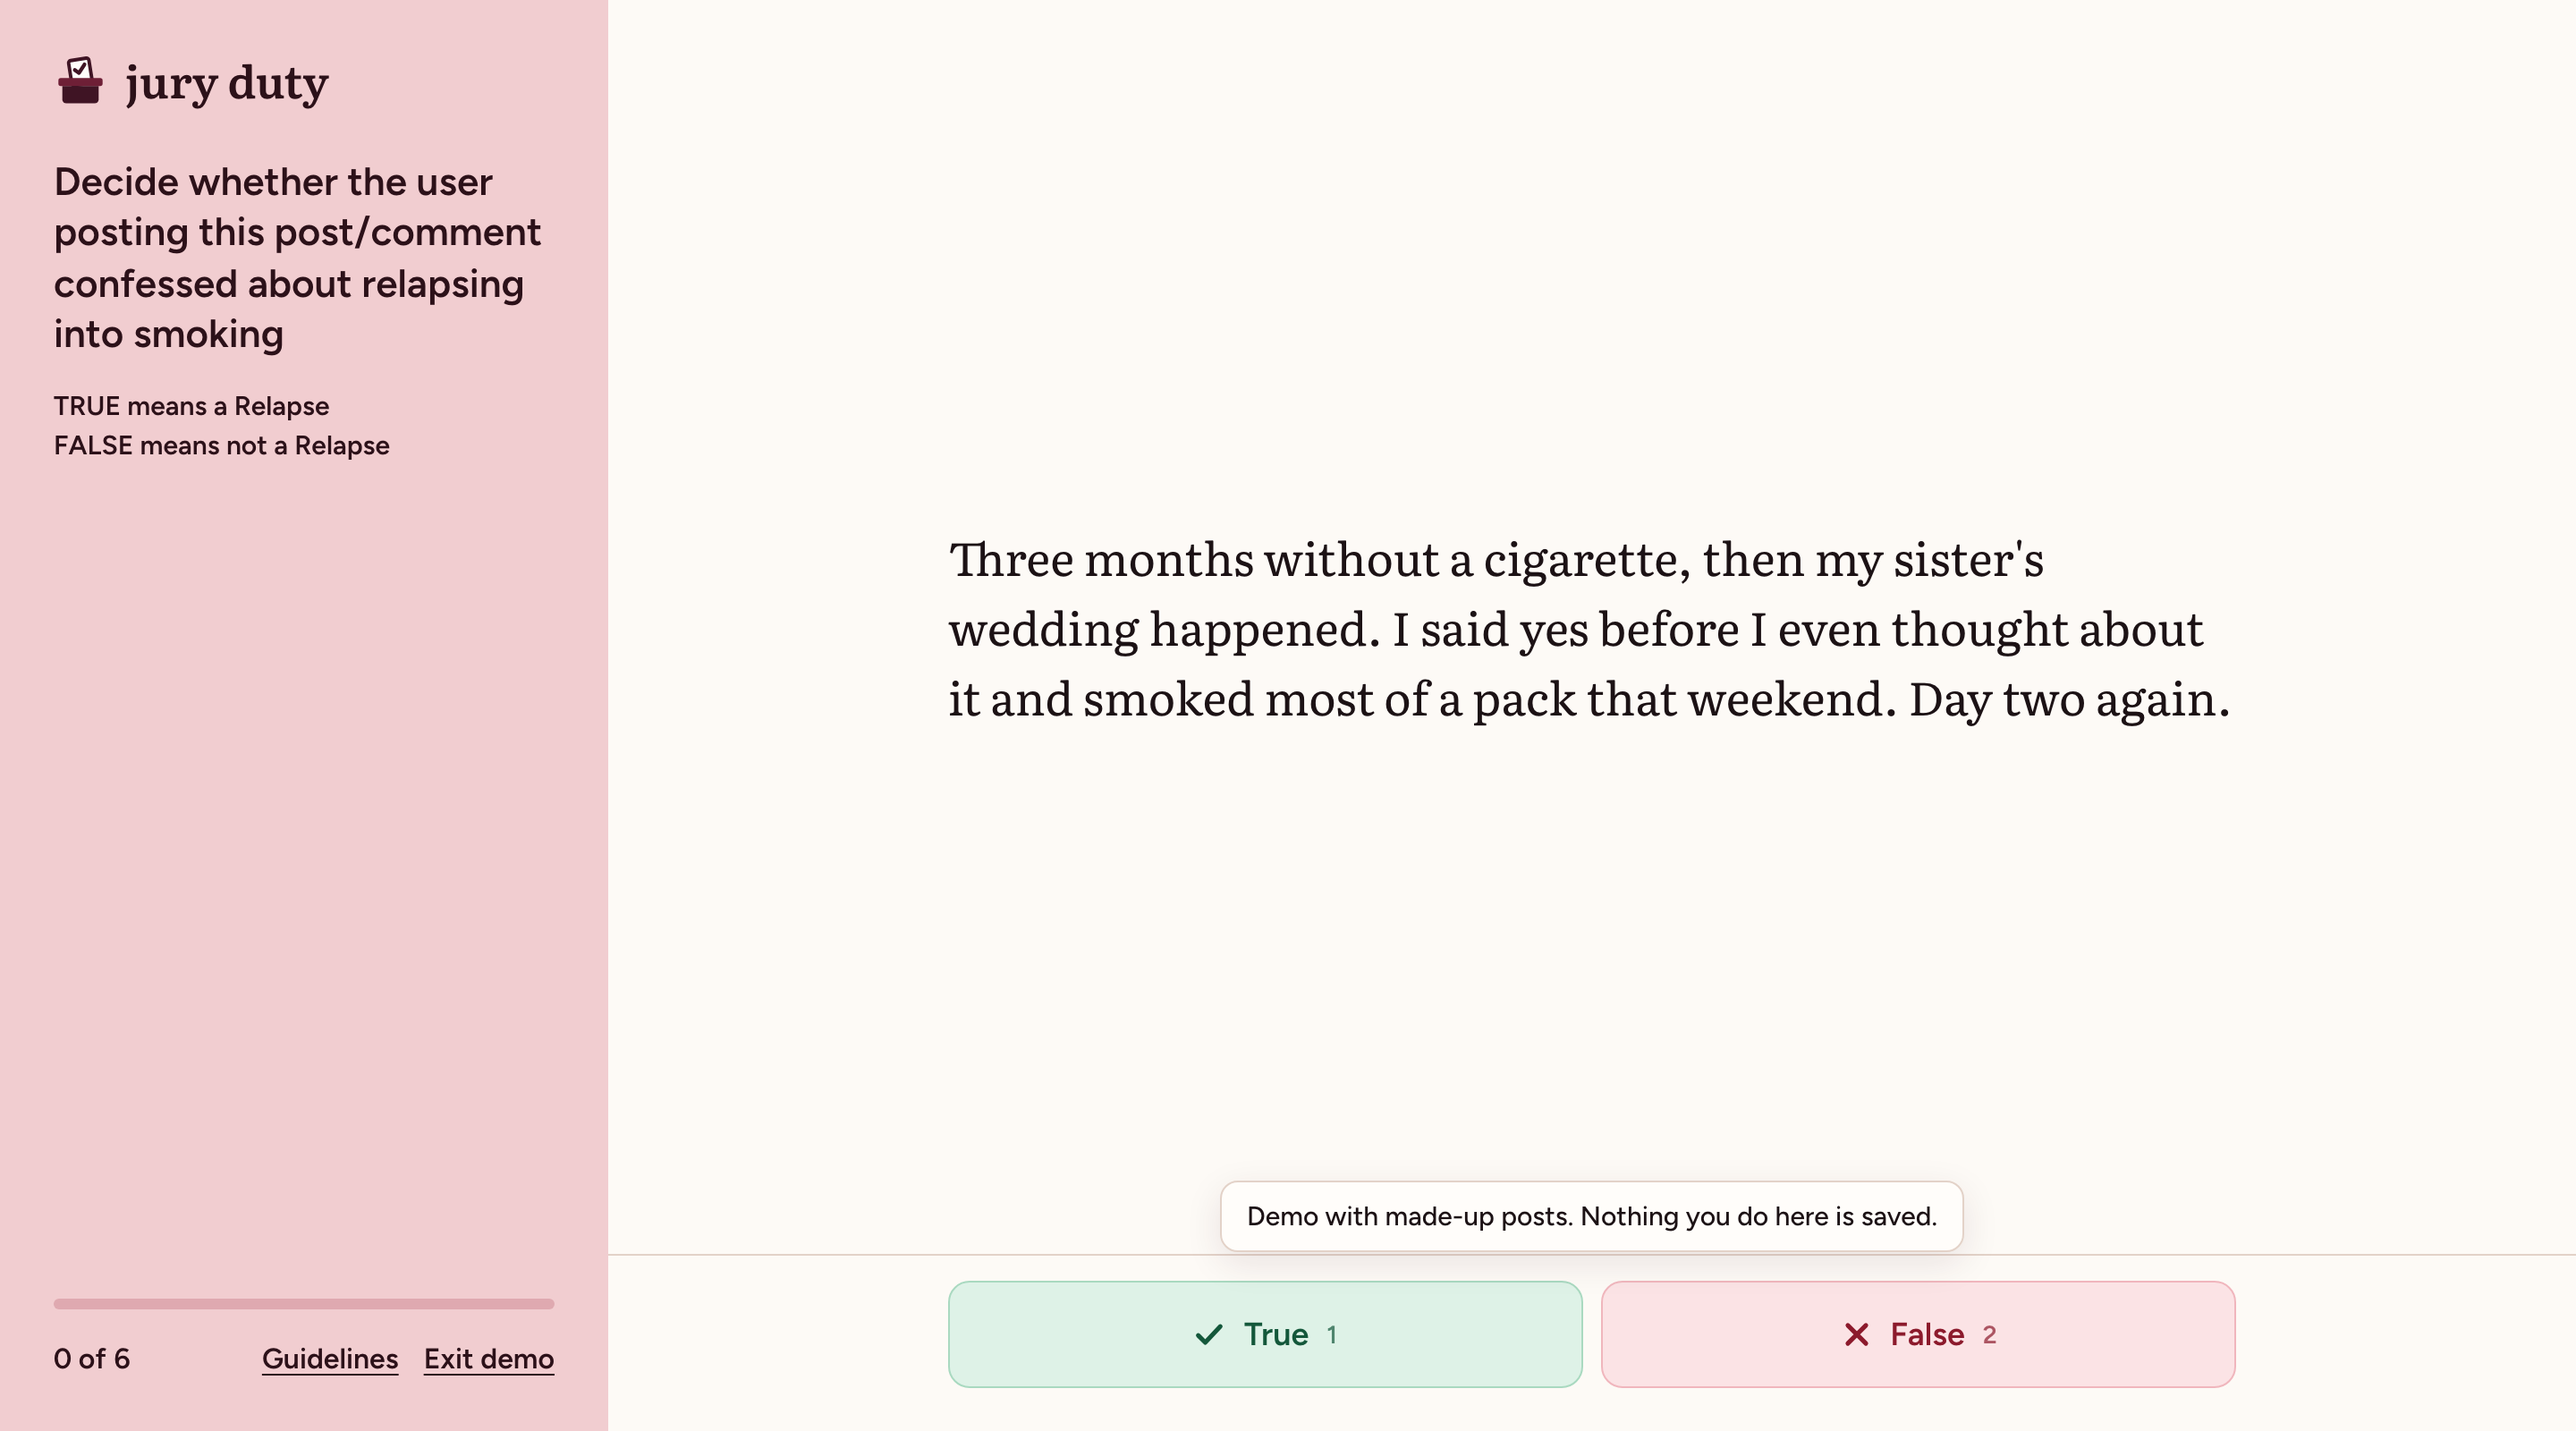
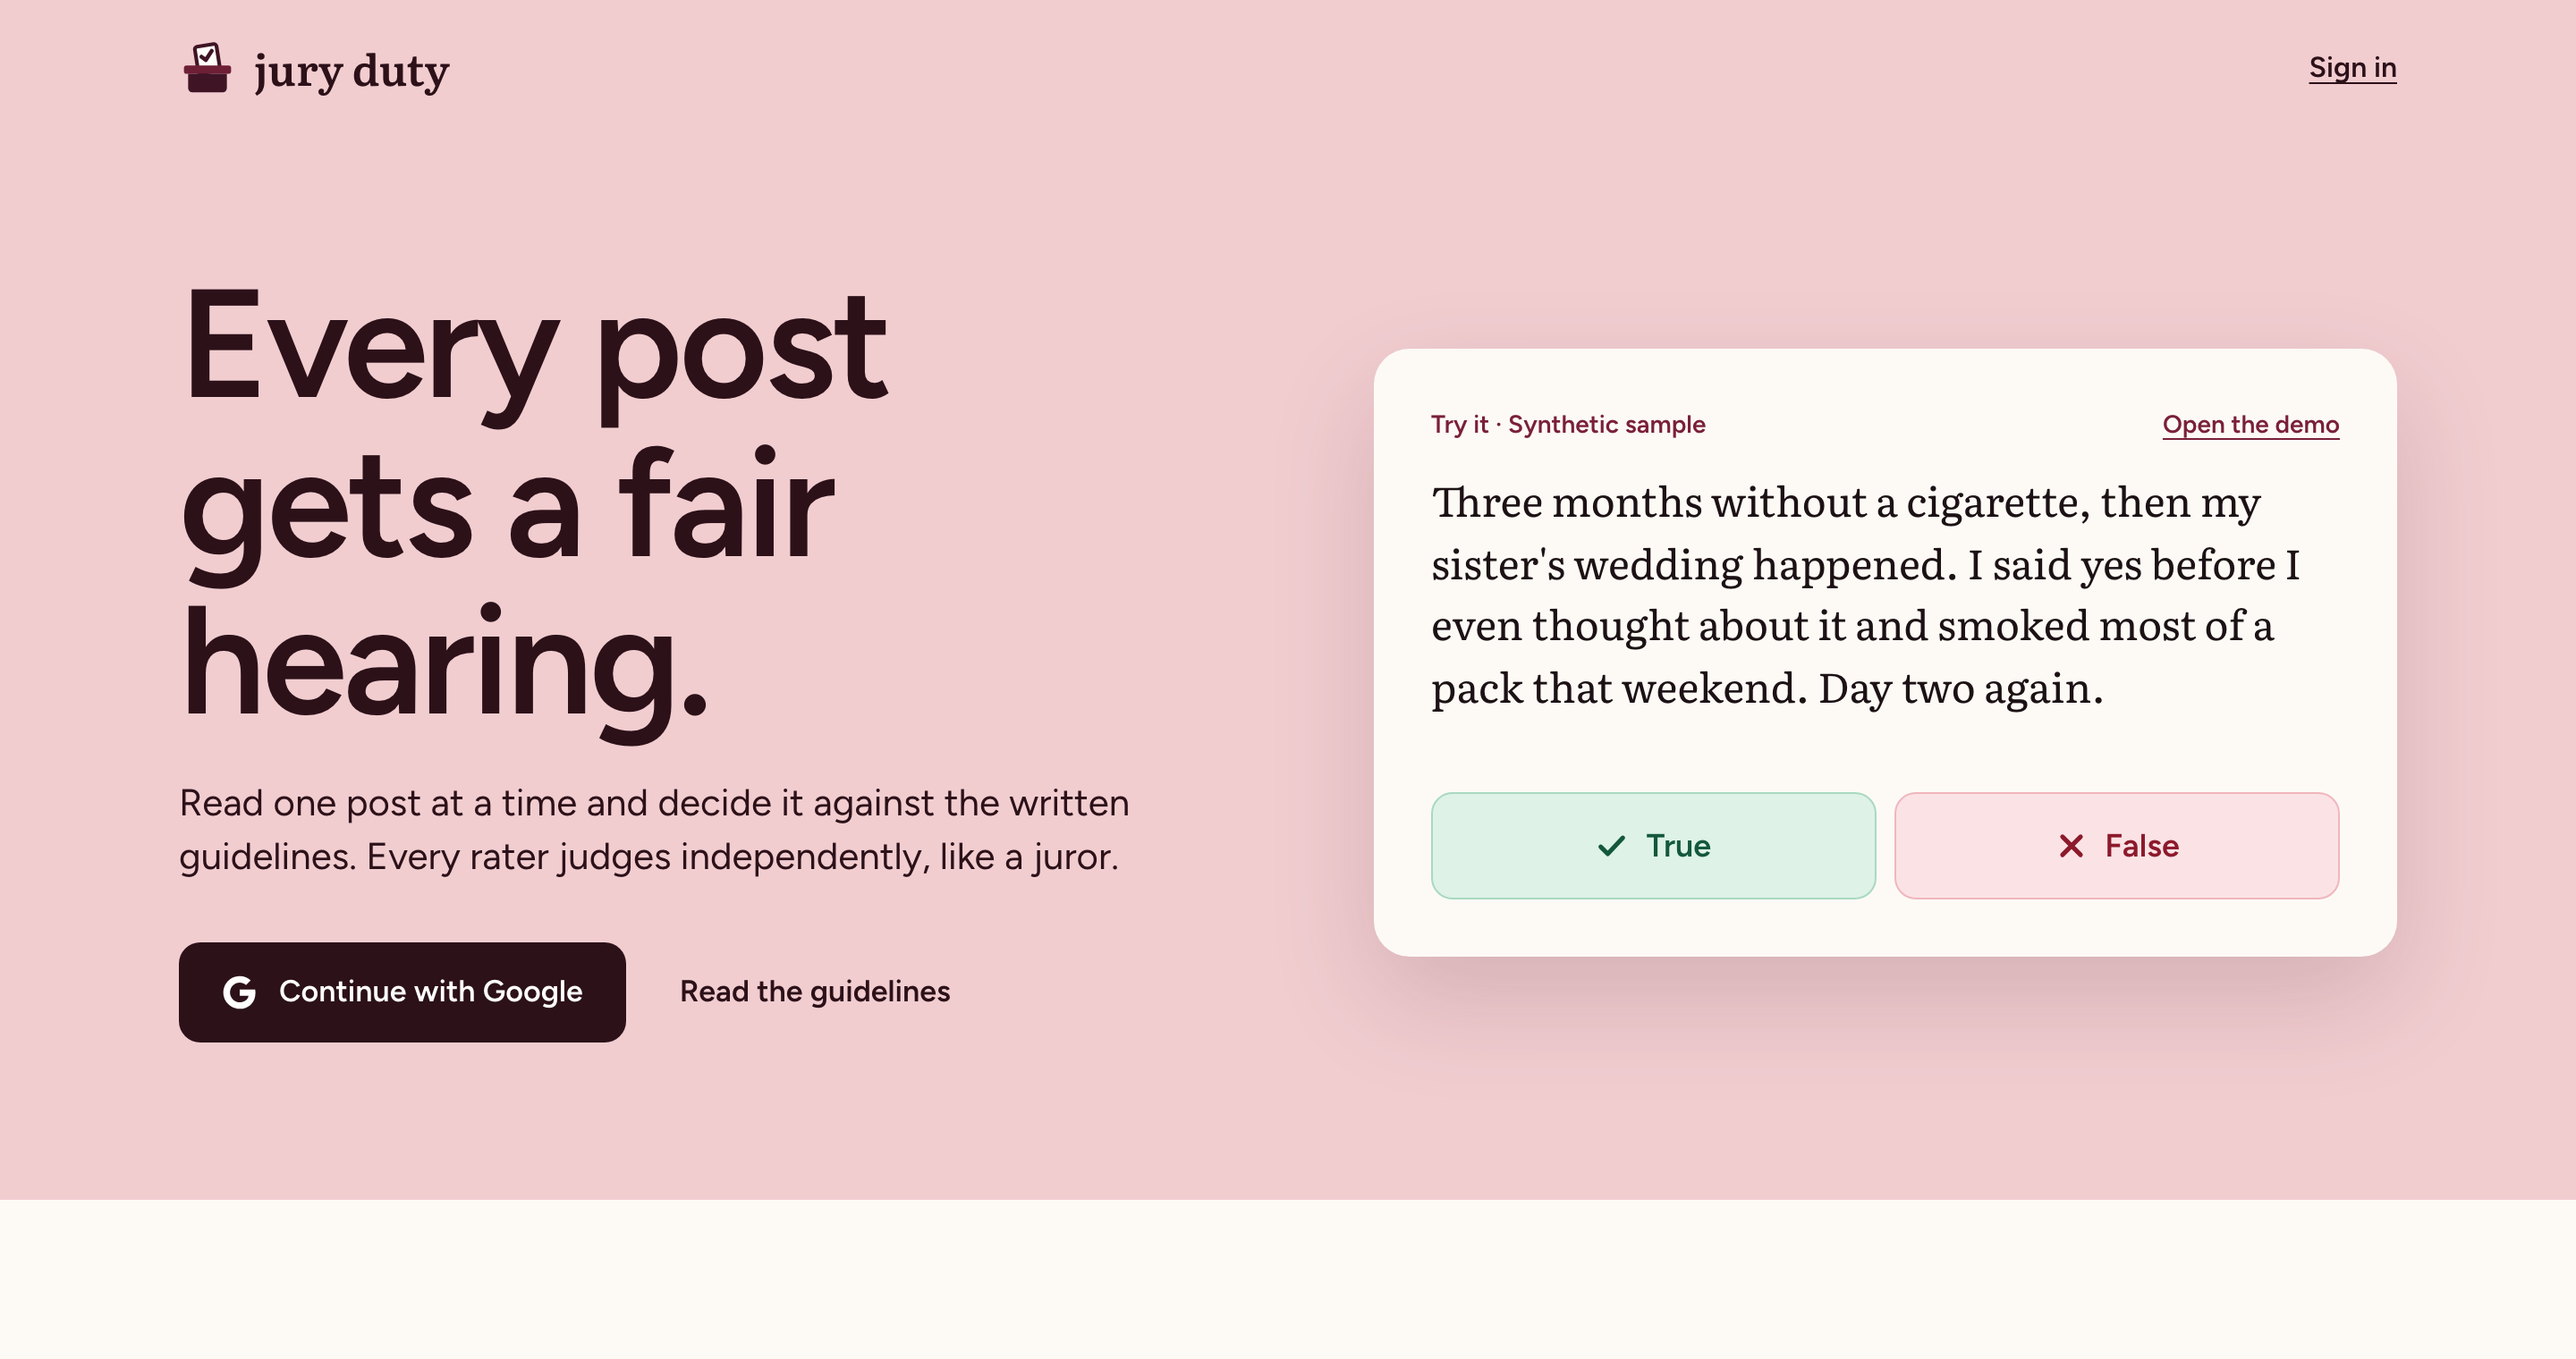
Rewrite the README and fix its license
Explain what Jury Duty is and how it works, add screenshots, and correct
the license to GPL v3. Also fix the demo link colour on the landing page.

diff --git a/frontend/src/routes/+page.svelte b/frontend/src/routes/+page.svelte
@@ -278,6 +278,11 @@
 		font-weight: 600;
 	}
 
+	.tag a {
+		color: inherit;
+		text-underline-offset: 3px;
+	}
+
 	.sample {
 		flex: 1;
 		margin-bottom: 16px;

diff --git a/README.md b/README.md
@@ -1,25 +1,49 @@
 <!-- markdownlint-disable MD033 -->
 
 <p align="center">
-  <img src="./.github/assets/jury-duty-preview.png" alt="Jury Duty: every post gets a fair hearing">
+  <img src="./.github/assets/jury-duty-preview.png" alt="Jury Duty: every post gets a fair hearing" width="1200">
 </p>
 
 ## Jury Duty
 
-Jury Duty is a data labeling engine for coordinated multi-rater annotation.
+Jury Duty is a self-hosted app for getting a group of people to label a dataset by hand, and measuring whether they agree.
 
-Each deployment is built around a single dataset: you host your own instance, load your posts, invite raters, and collect independent TRUE or FALSE verdicts ready for agreement analysis.
+Research and machine learning often need humans to read thousands of pieces of text and make the same yes-or-no call. Doing that in a spreadsheet goes wrong quickly: raters collide, posts get skipped, and nobody knows whether the labels can be trusted. Jury Duty gives each rater one post at a time, records an independent TRUE or FALSE verdict, and shows the project owner how reliable the results are.
 
-[juryduty.hishaam.dev](https://juryduty.hishaam.dev) is one deployment of it, running a real research dataset. [Try the demo](https://juryduty.hishaam.dev/demo) with made-up posts, no sign-in needed.
+**Try the [demo](https://juryduty.hishaam.dev/demo), no sign-in needed.**
+
+[juryduty.hishaam.dev](https://juryduty.hishaam.dev) is one deployment of Jury Duty, built for a research project where 12 raters made more than 12,000 judgements on Reddit posts about quitting smoking. Your own deployment runs your own dataset and guidelines.
+
+## How It Works
+
+1. **Set it up.** Host your own copy, write your guidelines, and import your posts from a CSV.
+2. **Invite raters.** They sign in with Google and get one post at a time, with the guidelines a click away.
+3. **Collect verdicts.** Every rater judges independently and never sees anyone else's answer.
+4. **Check the results.** Owners see how far raters agree, where they differ, and can export everything to CSV.
+
+<p align="center">
+  <img src="./.github/assets/labeling.png" alt="The labeling screen, with a post, the guidelines summary, and True and False buttons" width="900">
+</p>
 
 ## What It Does
 
-- Assigns posts to raters without collisions, and shows each rater a post at most once
-- Saves every verdict safely, with undo for a recent mistake
+For raters:
+
+- Shows one post at a time, from a single line to several screens, with True and False always in the same place
+- Assigns posts so raters don't collide, and gives each rater a post at most once
 - Works by click, tap or keyboard, on desktop and phone
-- Keeps the written guidelines one click away while labeling
-- Gives owners a results page with inter-rater agreement, rater pairs and disagreements
-- Exports every verdict to CSV for downstream analysis
+- Saves every verdict safely, keeps the post on screen if a save fails, and allows undo for 10 minutes
+- Reminds raters to take a break, because labeling sensitive content for hours is tiring
+
+For owners:
+
+- Shows progress, each rater's workload and TRUE rate, and the posts raters disagreed on
+- Measures inter-rater agreement with Krippendorff's α, Scott's π, Fleiss' κ, Cohen's κ for each rater pair, Gwet's AC1 and PABAK, with confidence intervals and a plain-language reading
+- Exports every verdict to CSV for your own analysis
+
+<p align="center">
+  <img src="./.github/assets/results.png" alt="The results page showing inter-rater agreement statistics on sample data" width="900">
+</p>
 
 ## Tech Stack
 
@@ -29,17 +53,18 @@ Each deployment is built around a single dataset: you host your own instance, lo
 [![Supabase](https://img.shields.io/badge/Supabase-Auth-3ECF8E?style=for-the-badge&logo=supabase&logoColor=white)](https://supabase.com/)
 [![PostgreSQL](https://img.shields.io/badge/PostgreSQL-17-336791?style=for-the-badge&logo=postgresql&logoColor=white)](https://www.postgresql.org/)
 [![Vercel](https://img.shields.io/badge/Vercel-Hosting-000000?style=for-the-badge&logo=vercel&logoColor=white)](https://vercel.com/)
+[![Vitest](https://img.shields.io/badge/Vitest-Tests-6E9F18?style=for-the-badge&logo=vitest&logoColor=white)](https://vitest.dev/)
 [![Playwright](https://img.shields.io/badge/Playwright-Tests-2EAD33?style=for-the-badge&logo=playwright&logoColor=white)](https://playwright.dev/)
 
 ## Self-Hosting
 
 [![Deploy with Vercel](https://vercel.com/button)](https://vercel.com/new/clone?repository-url=https%3A%2F%2Fgithub.com%2Fmdhishaamakhtar%2Fjury-duty&root-directory=frontend&env=PUBLIC_SUPABASE_URL,PUBLIC_SUPABASE_ANON_KEY,SUPABASE_SERVICE_ROLE_KEY&envDescription=Find%20these%20in%20your%20Supabase%20project%20settings&project-name=jury-duty&repository-name=jury-duty)
 
-Follow the [self-hosting guide](./docs/self-hosting.md) to set up your own deployment with your own data. It covers the database, Google sign-in, your guidelines, importing posts and adding owners.
+The [self-hosting guide](./docs/self-hosting.md) takes you from an empty Supabase project to a running deployment. It covers the database, Google sign-in, your guidelines, importing posts, adding owners, and reading the results.
 
 ## Quick Start
 
-You'll need Docker, Node.js 24 and the Supabase CLI.
+You need Docker, Node.js 24 and the [Supabase CLI](https://supabase.com/docs/guides/local-development/cli/getting-started). This starts a local database with every migration applied:
 
 ```bash
 export GOOGLE_CLIENT_ID=local GOOGLE_CLIENT_SECRET=local
@@ -47,7 +72,7 @@ supabase start
 supabase status -o env
 ```
 
-Copy `frontend/.env.example` to `frontend/.env` and fill in the local values, then start the app:
+Copy `frontend/.env.example` to `frontend/.env` and fill in the local URL and keys, then start the app:
 
 ```bash
 cd frontend
@@ -55,7 +80,13 @@ npm install
 npm run dev
 ```
 
-Open [localhost:5173/demo](http://localhost:5173/demo).
+Open [localhost:5173/demo](http://localhost:5173/demo). Google sign-in needs real credentials, which the [self-hosting guide](./docs/self-hosting.md) explains.
+
+To run the checks:
+
+```bash
+npm run verify
+```
 
 ## Contributors
 
@@ -63,4 +94,4 @@ Open [localhost:5173/demo](http://localhost:5173/demo).
 
 ## License
 
-[MIT](./LICENSE)
+Jury Duty is licensed under the [GNU General Public License v3.0](./LICENSE).
